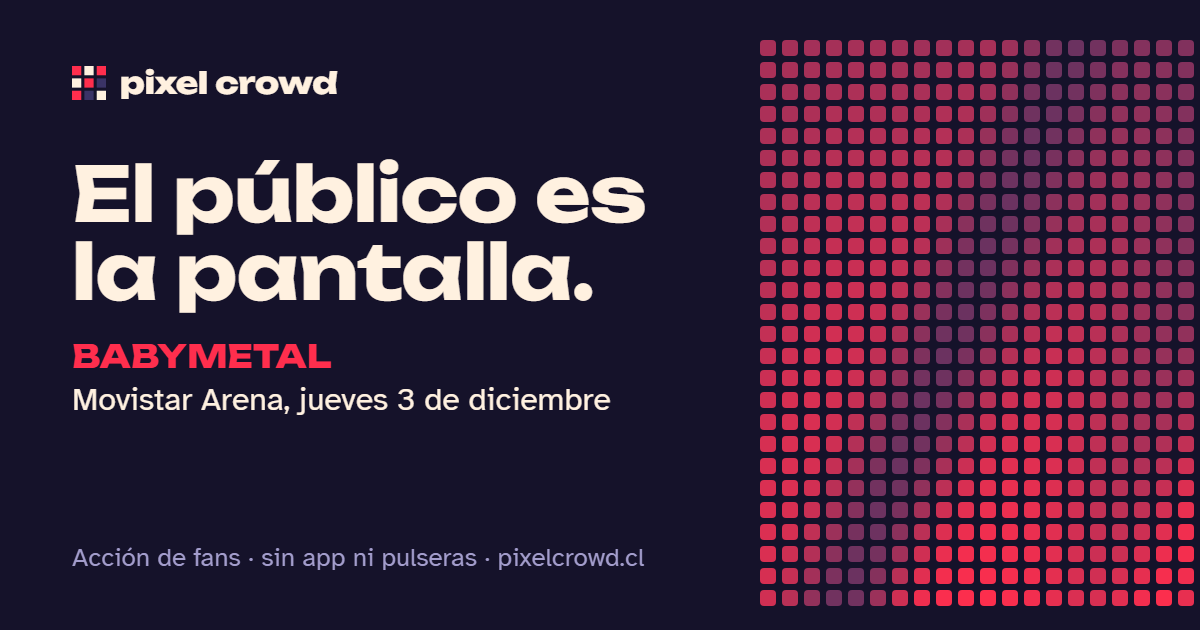
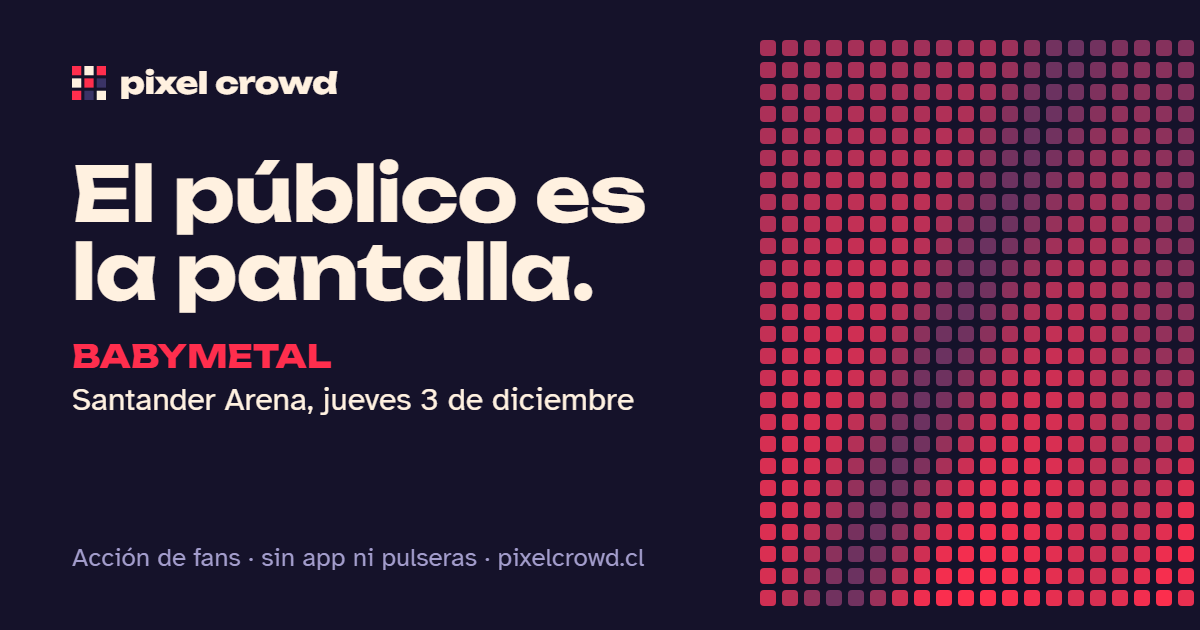
Movistar Arena ahora es Santander Arena
- BABYMETAL: lugar "Santander Arena" (nombre oficial desde septiembre de 2026)
  en la página, el panel, la imagen para compartir y el README
- lugarAnterior: el nombre anterior va solo en lo que leen los buscadores
  (meta descripción, palabras clave, JSON-LD y llms.txt), no en la página ni en
  las vistas previas al compartir; mucha gente sigue buscándolo así
- El identificador interno del recinto sigue siendo movistar-arena

Claude-Session: https://claude.ai/code/session_01AnAnuJgtZj8XN7ANCcqYom

Changed region(s): [[0.0617, 0.6032, 0.5242, 0.6635]]

diff --git a/server.js b/server.js
@@ -782,14 +782,23 @@ function metadatos(archivo, ev) {
     offers: { '@type': 'Offer', price: '0', priceCurrency: 'CLP' }, creator: { '@id': BASE_PUBLICA + '#autor' } };
   const autor = { '@type': 'Person', '@id': BASE_PUBLICA + '#autor', name: AUTOR, email: 'mailto:javier_munoz_navarrete@hotmail.com' };
   const sitio = { '@type': 'WebSite', '@id': BASE_PUBLICA + '#sitio', name: 'Pixel Crowd', url: BASE_PUBLICA, inLanguage: 'es-CL', publisher: { '@id': BASE_PUBLICA + '#autor' } };
-  let titulo, descripcion, url, imagen, grafo;
+  let titulo, descripcion, url, imagen, grafo, descripcionBuscadores = null, palabrasClave = null;
   if (ev) {
     const d = ev.def;
     url = BASE_PUBLICA + ev.slug;
     titulo = `${d.titulo}${d.lugar ? ' en el ' + d.lugar : ''}: enciende tu teléfono | Pixel Crowd`;
-    descripcion = `Acción de fans para ${d.titulo}${d.fecha ? ', ' + d.fecha : ''}${d.lugar ? ' en el ' + d.lugar : ''}: elige tu sector y tu teléfono se suma a las luces del público, junto a miles de pantallas. Sin app ni pulseras.`;
+    const desc = (lugar) => `Acción de fans para ${d.titulo}${d.fecha ? ', ' + d.fecha : ''}${lugar ? ' en el ' + lugar : ''}: elige tu sector y tu teléfono se suma a las luces del público, junto a miles de pantallas. Sin app ni pulseras.`;
+    descripcion = desc(d.lugar);
+    // Si el recinto cambió de nombre (Movistar Arena → Santander Arena), el anterior va solo en lo que leen los
+    // buscadores (meta descripción, palabras clave, JSON-LD): mucha gente sigue buscándolo. En la página y en las
+    // vistas previas al compartir aparece solo el nombre actual.
+    if (d.lugarAnterior) {
+      descripcionBuscadores = desc(`${d.lugar} (ex ${d.lugarAnterior})`);
+      palabrasClave = [d.titulo, d.lugar, d.lugarAnterior, 'Pixel Crowd', 'luces con el teléfono', 'acción de fans', 'Santiago'];
+    }
     imagen = fs.existsSync(path.join(PUBLIC, 'og', ev.slug + '.png')) ? `og/${ev.slug}.png` : 'og/pixel-crowd.png';
-    grafo = [sitio, app, autor, { '@type': 'WebPage', '@id': url, url, name: titulo, description: descripcion, inLanguage: 'es-CL',
+    grafo = [sitio, app, autor, { '@type': 'WebPage', '@id': url, url, name: titulo, description: descripcionBuscadores || descripcion, inLanguage: 'es-CL',
+      ...(palabrasClave ? { keywords: palabrasClave.join(', ') } : {}),
       // Sin marcado de evento (MusicEvent): Google lo toma como la página del concierto y lo mostraría como evento
       // oficial; esta página es la acción de fans, no el concierto
       isPartOf: { '@id': BASE_PUBLICA + '#sitio' }, about: { '@id': BASE_PUBLICA + '#app' } }];
@@ -806,7 +815,8 @@ function metadatos(archivo, ev) {
   const ld = JSON.stringify({ '@context': 'https://schema.org', '@graph': grafo }).replace(/</g, '\\u003c');
   return [
     `<title>${escaparHtml(titulo)}</title>`,
-    `<meta name="description" content="${escaparHtml(descripcion)}">`,
+    `<meta name="description" content="${escaparHtml(descripcionBuscadores || descripcion)}">`,
+    ...(palabrasClave ? [`<meta name="keywords" content="${escaparHtml(palabrasClave.join(', '))}">`] : []),
     `<link rel="canonical" href="${url}">`,
     ...(ev && !indexable(ev) ? ['<meta name="robots" content="noindex">'] : []),
     '<meta property="og:type" content="website">', '<meta property="og:site_name" content="Pixel Crowd">', '<meta property="og:locale" content="es_CL">',

diff --git a/tools/imagen-og.html b/tools/imagen-og.html
@@ -1,6 +1,6 @@
 <!doctype html>
 <!-- Pixel Crowd — Copyright (c) 2026 Javier Julian Muñoz Navarrete · SPDX-License-Identifier: PolyForm-Noncommercial-1.0.0 (ver LICENSE.md) -->
-<!-- Plantilla de las imágenes para compartir (1200×630). Parámetros: ?show=BABYMETAL&lugar=Movistar%20Arena&fecha=jueves%203%20de%20diciembre
+<!-- Plantilla de las imágenes para compartir (1200×630). Parámetros: ?show=BABYMETAL&lugar=Santander%20Arena&fecha=jueves%203%20de%20diciembre
      Sin parámetros, la de la portada. Se captura con Chrome/Edge sin ventana (ver README, "SEO"). -->
 <html lang="es"><head><meta charset="utf-8">
 <link href="https://fonts.googleapis.com/css2?family=Atkinson+Hyperlegible:wght@400;700&family=Unbounded:wght@700;800&display=block" rel="stylesheet">

diff --git a/README.md b/README.md
@@ -95,7 +95,7 @@ Cada evento es una carpeta `data/eventos/<evento>/` con un `evento.json`. Cada u
 
 ```json
 {
-  "titulo": "BABYMETAL", "lugar": "Movistar Arena",
+  "titulo": "BABYMETAL", "lugar": "Santander Arena", "lugarAnterior": "Movistar Arena",
   "fecha": "jueves 3 de diciembre", "fechaISO": "2026-12-03",
   "recinto": "movistar-arena",
   "presets": [ { "nombre": "…", "asignaciones": [ { "zonas": "todas", "capa": { "efecto": "bandera" } } ] } ]
@@ -117,9 +117,9 @@ Cada evento es una carpeta `data/eventos/<evento>/` con un `evento.json`. Cada u
 
 - **Reintentos:** cada envío del panel lleva un id. Si la red del operador falla, el panel reintenta hasta 4 veces con el mismo id y el servidor no lo aplica dos veces. Se puede tener un segundo operador de respaldo (misma clave) en otra parte del recinto.
 
-Eventos actuales: `babymetal-2026` (BABYMETAL, Movistar Arena) y `atarashii-gakko-2026` (ATARASHII GAKKO!, Teatro Caupolicán), ambos el jueves 3 de diciembre de 2026, más `demo` (oculto, con el estadio de prueba).
+Eventos actuales: `babymetal-2026` (BABYMETAL, Santander Arena) y `atarashii-gakko-2026` (ATARASHII GAKKO!, Teatro Caupolicán), ambos el jueves 3 de diciembre de 2026, más `demo` (oculto, con el estadio de prueba).
 
-**BABYMETAL · 3 dic 2026, Movistar Arena** (`data/eventos/babymetal-2026/evento.json`): presets en el orden del setlist de la gira 2026, con los colores de la banda (rojo, negro y blanco):
+**BABYMETAL · 3 dic 2026, Santander Arena** (`data/eventos/babymetal-2026/evento.json`): presets en el orden del setlist de la gira 2026, con los colores de la banda (rojo, negro y blanco):
 - **Bandera de Chile** (destacada): **una sola bandera gigante con todo el público**, vista desde el escenario. Cada persona se proyecta según cómo la ve la banda (ángulo horizontal y altura estimada por nivel y fila) y la bandera se reparte por cantidad de gente: la mitad que se ve más arriba forma la franja blanca y el cantón, y la de abajo la roja. El simulador tiene una "Vista desde el escenario" para revisarla.
 - **Banderas por sector**: una bandera en cada galería (vista desde la cancha) y otra en la cancha.
 - **Tela roja BABYMETAL**: efecto "Tela al viento", una gran tela de un solo color que flamea solo con tonos del mismo color (oscuro en los valles, pleno en las crestas y un leve brillo como satín). En la pestaña General está "Tela al viento (color elegido)", que usa el color seleccionado en el panel.
@@ -132,7 +132,7 @@ El orden y los BPM son una referencia: hay que ajustarlos en el ensayo y con el 
 
 Cada evento indica qué recinto usa (`"recinto"` en su `evento.json`) y varios eventos pueden compartir uno.
 
-**Los mapas de recintos reales (Movistar Arena, Teatro Caupolicán…) no están en este repositorio:** viven en un repositorio privado, porque obtenerlos cuesta trabajo. Aquí solo está `data/recintos/demo`, un estadio de ejemplo (3 galerías, 3.240 asientos) que usan los tests y el evento de prueba `/demo`.
+**Los mapas de recintos reales (Santander Arena, Teatro Caupolicán…) no están en este repositorio:** viven en un repositorio privado, porque obtenerlos cuesta trabajo. Aquí solo está `data/recintos/demo`, un estadio de ejemplo (3 galerías, 3.240 asientos) que usan los tests y el evento de prueba `/demo`.
 
 El servidor busca los recintos, en orden, en:
 1. `RECINTOS_DIR` (una o varias carpetas, separadas por `;` en Windows o `:` en Linux; en Railway, `/data/recintos` del volumen),
@@ -210,7 +210,7 @@ node tools/carga.js --url http://localhost:3000 --evento demo --telefonos 10000 
 
 Opciones: `--modo poll` (teléfonos en modo consultas), `--zona`, `--escenas`, `--reloj-s`, `--muestras`, `--muestras-luego`, `--espera-inicial-ms`. Un solo PC con Windows llega a unas 13.000 conexiones. Contra producción, úsalo solo a propósito: cada teléfono simulado es una conexión real.
 
-Resultados en el recinto del Movistar Arena (32 zonas), 10.000 teléfonos, servidor local, antes y después de los cambios de robustez:
+Resultados en el recinto del Santander Arena (32 zonas), 10.000 teléfonos, servidor local, antes y después de los cambios de robustez:
 
 | | Antes | Después |
 |---|---|---|
